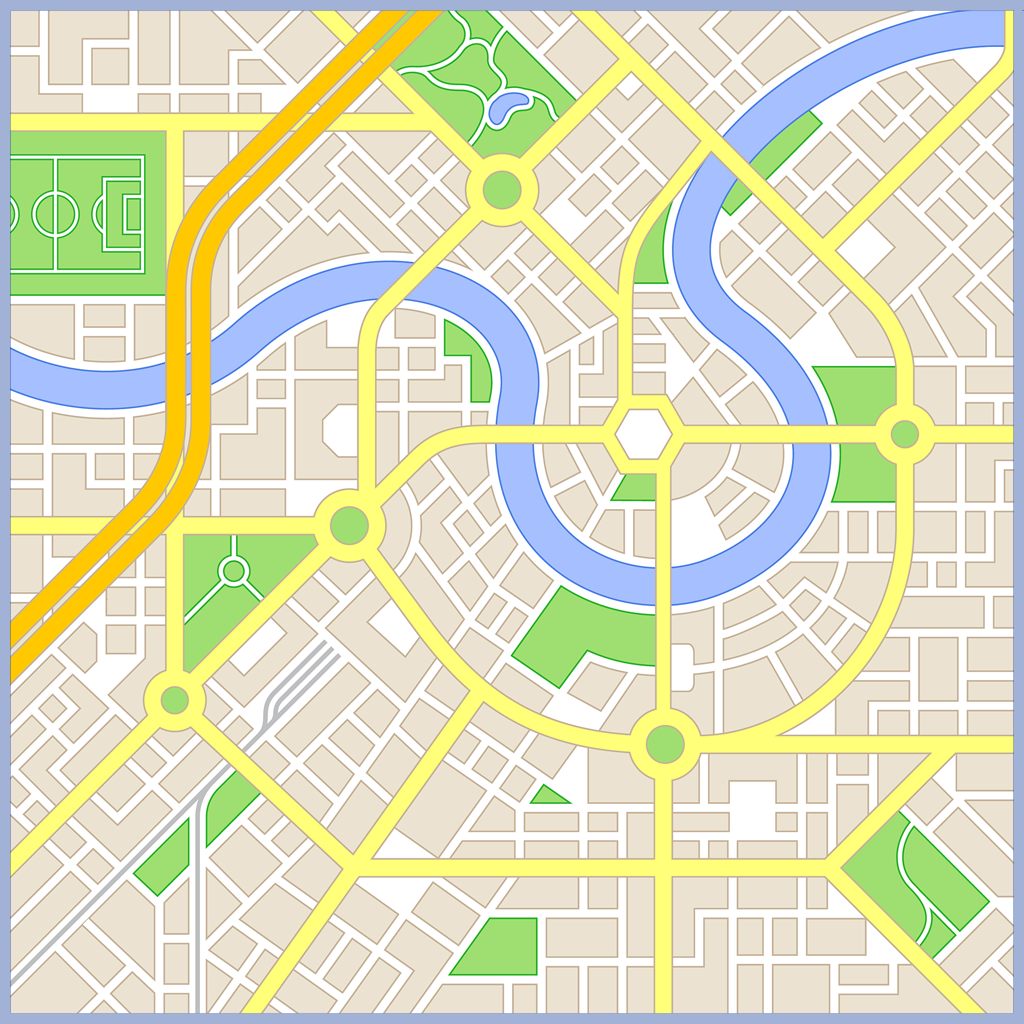
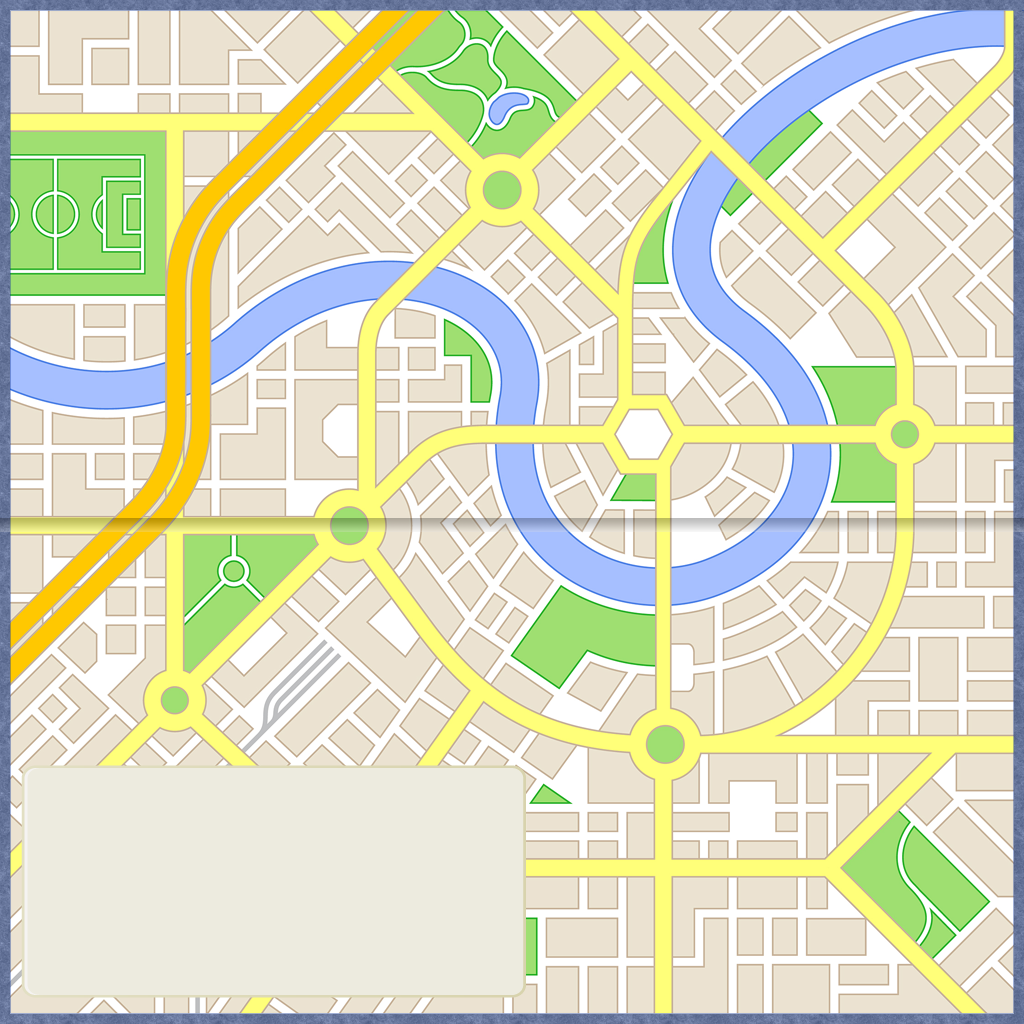
Some divs. Some board

Changed region(s): [[0.0, 0.0, 1.0, 1.0]]

diff --git a/app/assets/stylesheets/games.css.scss b/app/assets/stylesheets/games.css.scss
@@ -1,3 +1,24 @@
 // Place all the styles related to the Games controller here.
 // They will automatically be included in application.css.
 // You can use Sass (SCSS) here: http://sass-lang.com/
+
+#board {
+    height:1024px;
+    width:1024px;
+    background-image: url('board_w_squares.png');
+    background-repeat: no-repeat;
+    position: relative;
+
+    div {
+      width: 136px;
+      height: 136px;
+      // outline: 1px solid green;
+      position: absolute;
+    }
+}
+
+#space1 {
+  top: 10px;
+  left: 20px;
+  outline: 1px solid green;
+}

diff --git a/app/assets/stylesheets/application.css b/app/assets/stylesheets/application.css
@@ -17,10 +17,3 @@ body {
   font-family: 'Salsa', cursive;
 
 }
-
-#board {
-    height:1024px;
-    width:1024px;
-    background-image: url('board_w_squares.png');
-    background-repeat: no-repeat;
-}
